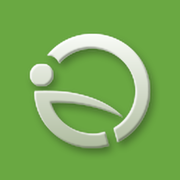
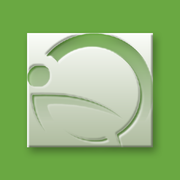
fix: icono sin alfa + fecha de nacimiento ya no obligatoria
- apple-touch-icon.png (y el resto de tamaños, y og-image.png) se
  regeneran sin canal alfa: iOS a veces rechazaba el icono con
  transparencia y mostraba uno genérico en su lugar. og-image.png
  también estaba desactualizado (el logo antiguo) en la vista previa al
  compartir el enlace.
- DateOfBirthPicker tenía el required nativo fijo a true pasara lo que
  pasara la prop: en sitios donde ya se pretendía opcional (editar
  perfil) en realidad lo seguía exigiendo igual. Arreglado de raíz, y
  quitado el required en los formularios de nuevo cliente/entrenador.

diff --git a/app/dashboard/entrenadores/nuevo/page.tsx b/app/dashboard/entrenadores/nuevo/page.tsx
@@ -32,10 +32,10 @@ export default function NuevoEntrenadorPage() {
     setError('');
 
     // La dirección no se pide: se puede rellenar luego desde su ficha.
+    // La fecha de nacimiento tampoco es obligatoria.
     if (
       !form.firstName ||
       !form.lastName ||
-      !form.dateOfBirth ||
       !form.email ||
       !form.phone
     ) {
@@ -59,6 +59,7 @@ export default function NuevoEntrenadorPage() {
     try {
       await createUserByAdmin(token, {
         ...form,
+        dateOfBirth: form.dateOfBirth || undefined,
         roles: ['trainer'],
       });
       router.push('/dashboard/entrenadores');
@@ -112,7 +113,6 @@ export default function NuevoEntrenadorPage() {
             <DateOfBirthPicker
               value={form.dateOfBirth}
               onChange={(value) => setForm({ ...form, dateOfBirth: value })}
-              required
             />
             <div>
               <label className={labelClass}>Teléfono<span className="text-red-500"> *</span></label>

diff --git a/app/dashboard/clientes/nuevo/page.tsx b/app/dashboard/clientes/nuevo/page.tsx
@@ -39,6 +39,7 @@ export default function NuevoClientePage() {
     try {
       const created = await createUserByAdmin(token, {
         ...form,
+        dateOfBirth: form.dateOfBirth || undefined,
         email: form.email || undefined,
         roles: ['client'],
       });
@@ -95,7 +96,6 @@ export default function NuevoClientePage() {
             <DateOfBirthPicker
               value={form.dateOfBirth}
               onChange={(value) => setForm({ ...form, dateOfBirth: value })}
-              required
             />
             <div>
               <label className={labelClass}>Teléfono<span className="text-red-500"> *</span></label>

diff --git a/components/DateOfBirthPicker.tsx b/components/DateOfBirthPicker.tsx
@@ -100,7 +100,7 @@ export default function DateOfBirthPicker({
         className={inputClass}
         wrapperClassName="w-full"
         disabled={disabled}
-        required
+        required={required}
         popperPlacement="bottom-start"
         popperModifiers={[shift({ padding: 8 }), flip({ padding: 8 })]}
         renderCustomHeader={({

diff --git a/lib/usersApi.ts b/lib/usersApi.ts
@@ -27,7 +27,7 @@ export interface UpdateMePayload {
 export interface CreateUserByAdminPayload {
   firstName: string;
   lastName: string;
-  dateOfBirth: string;
+  dateOfBirth?: string;
   email?: string;
   password?: string;
   phone: string;
